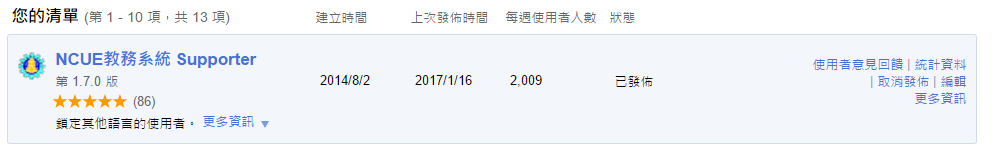
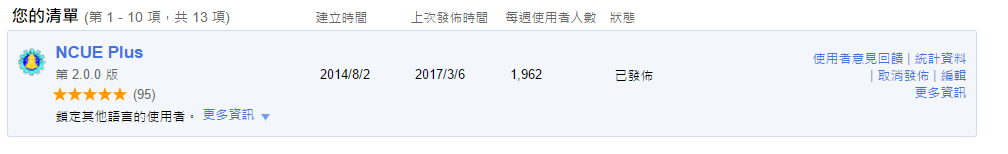
ä¿®æä¸»æ©å¤æ·é¯èª¤ï¼å°è´ç¡æ³è¼å
¥èª²ç¨è©è«ç³»çµ± Bump to 2.0.1:

diff --git a/src/firstRun.html b/src/firstRun.html
@@ -10,14 +10,11 @@
 		<div style="margin:0 auto;font-size:50px">
 			<img src="icons/icon128.png"></img>NCUE Plus
 		</div>
-		<p>本次更新內容： 版本2.0.0(2017/03/06)
+		<p>本次更新內容： 版本2.0.1(2017/06/15)
 			<ul>
-				<li>
-					<h3><a style="color:red" href="http://webap0.ncue.edu.tw/deanv2/other/ob010">新增 課程評論系統!!!!</a></h3>
-					<li>
-						更名 NCUE Plus
-					</li>
-				</li>
+        <li>
+          修正 主機判斷錯誤，導致無法載入課程評論系統
+        </li>
 			</ul>
 			<p>
 				<p>套件特色：
@@ -30,9 +27,11 @@
 						<li>可一鍵全選教學意見反應問卷選項</li>
 					</ul>
 					<p>若有疑問、Bug、系統建議，歡迎<a href="https://chrome.google.com/webstore/detail/agbcepaalgmkkbfognoaonhippllckkc/support?hl=zh-TW">通知</a>，也歡迎大家幫忙<a href="https://chrome.google.com/webstore/detail/agbcepaalgmkkbfognoaonhippllckkc/reviews?hl=zh-TW">評分</a>XD
-						<p style="font-size:70px;color: blue;">
-							<del>祝我四上 All Pass!!!!!</del> ㄎㄅ 我線性代數又被當了(3/6更新) 然後我交大研究所上了~喔耶~ 然後這段期間大概就是最後幾次更新了， 畢竟連我都要畢業了， 感謝各位這兩年半來的使用， 因為有你們的支持， 我才能把這個作品放進推甄資料裡面ㄏㄏXD。 然後，據說教務系統在今年or明年就會徹底改頭換面， 徹底支援 Chrome、Firefox 等主流瀏覽器， 最後祝各位在彰師有個美好的四年XD
-							<img src="img/display.png" /><br>附上截至目前的使用狀況
+						<p style="font-size:40px;color: blue;">
+							準備要跟大家說再見了，我自己將畢業離開彰師，在這之前，還希望大家能多多支持課程評論系統，雖然還有一些能改進的地方，但是我覺得應該是夠用了，至於之後我所有關於彰師大的專案是否會繼續維持，就端看有沒有嚴重的使用問題，並且有人通知我 😛。
+              <br>
+              嘛~接下來是真正的感言，從我大一暑假(2014/8/2)上線這個專案以來，截至目前為止也有數千人安裝使用，不知道大家對這個套件的感想是甚麼？有沒有真的幫到大家？會不會覺得我每次廣告都很煩？XD，我最初只是單純想解決自己的困擾，之後也是獨樂樂不如眾樂樂，分享給大家，在這中間也更新了數十次，到今年新增了課程評論系統，雖然使用狀況還不是很普及，但是應該多多少少友幫到一點點點人？雖然很開心，但是持續性維護將到我離開為止，如果有人想要接棒我是很願意啦，如果有bug歡迎補充程式碼，我可以隨時更新套件。最後還是來個感性一下，「謝謝大家三年來的支持囉~」
+							<br><img src="img/display.png" /><br>附上截至目前的使用狀況
 	</div>
 	</div>
 </body>

diff --git a/README.md b/README.md
@@ -37,6 +37,9 @@ grunt watch
 
 ##  更新記錄
 
+- ##### 版本2.0.1
+1. 修正 主機判斷錯誤，導致無法載入課程評論系統
+
 - ##### 版本2.0.0
 1. 新增 課程評論系統
 2. 修正 程式名稱 從 NCUE新教務系統 Supporter → NCUE Plus
